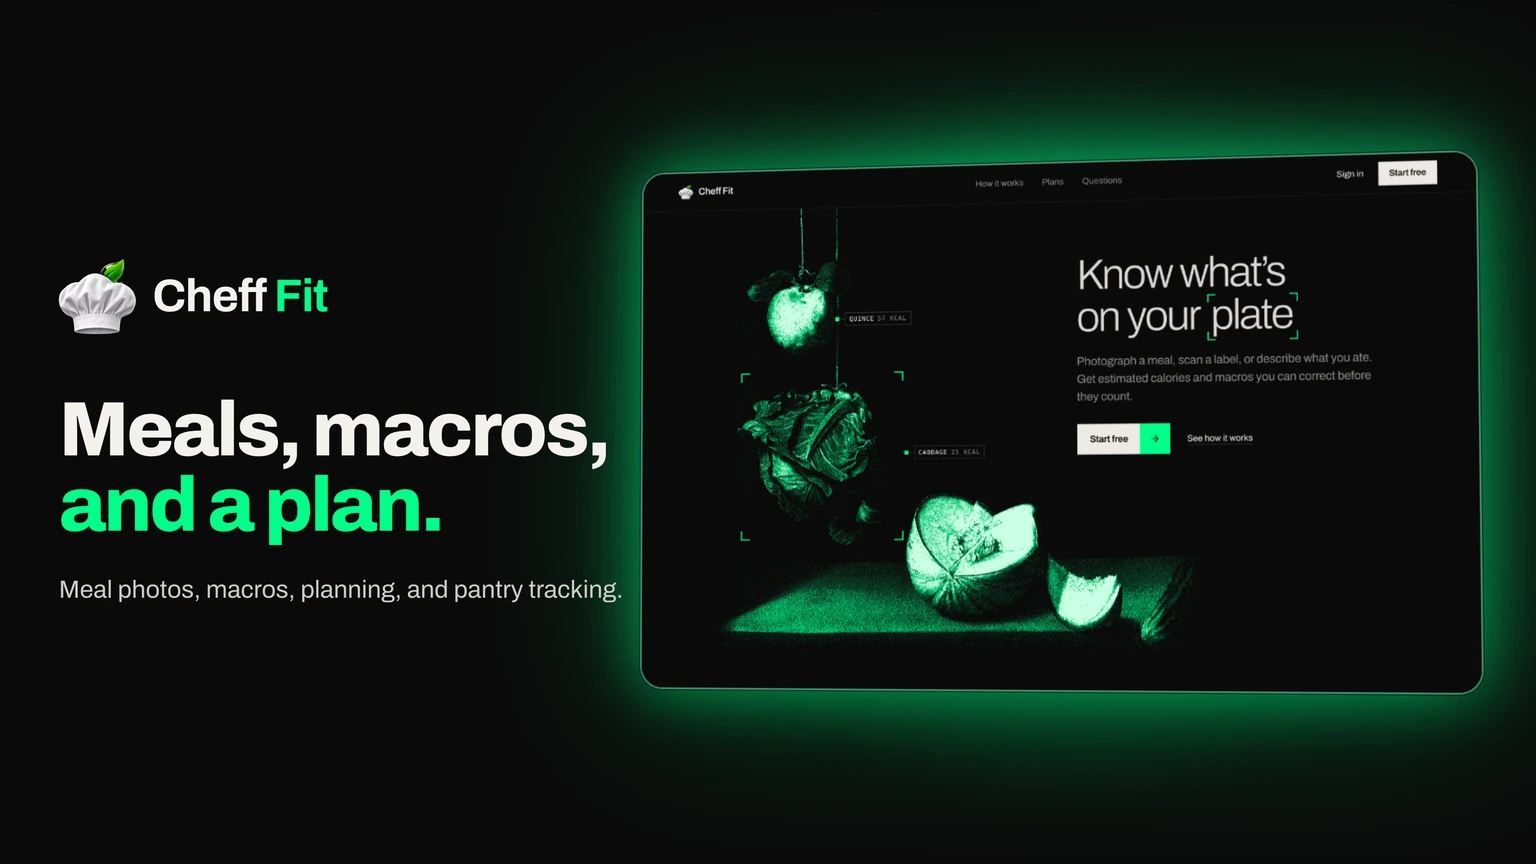
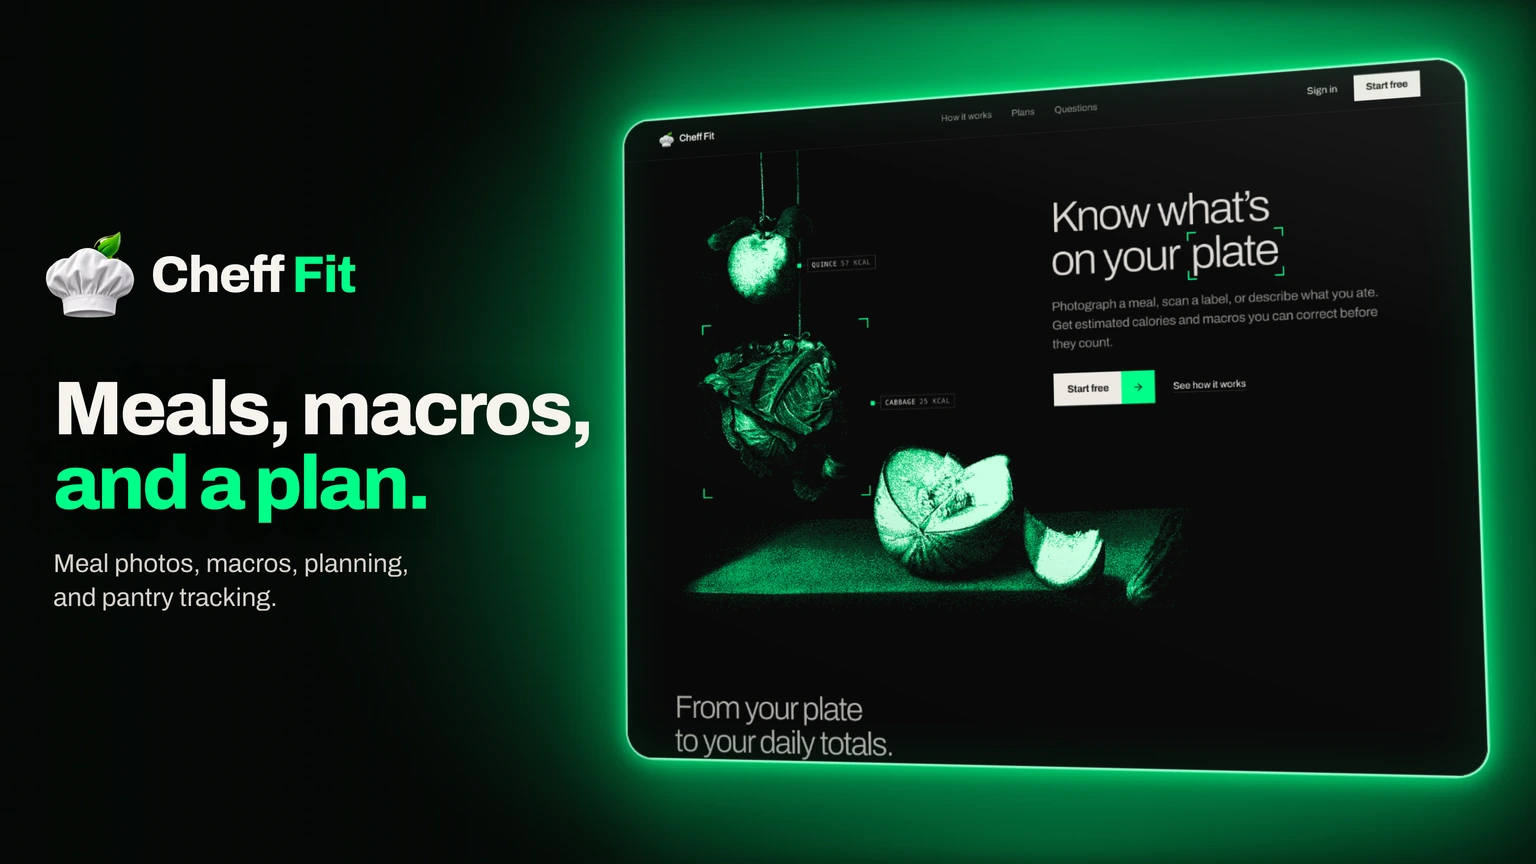
Cheff Fit cover matches the other product cards: larger tilted window with a rim glow, bigger type

diff --git a/projects/index.html b/projects/index.html
@@ -40,7 +40,7 @@
         <div class="project-tools"><input id="project-search" class="project-search" type="search" placeholder="Search projects" aria-label="Search projects"><div class="project-filters" role="group" aria-label="Filter projects"><button type="button" data-filter="all" aria-pressed="true">All</button><button type="button" data-filter="security" aria-pressed="false">Security</button><button type="button" data-filter="automation" aria-pressed="false">AI &amp; automation</button><button type="button" data-filter="systems" aria-pressed="false">Systems</button><button type="button" data-filter="apps" aria-pressed="false">Apps</button></div></div>
         <div class="project-grid">
           <article class="project-card" data-category="automation"><a href="https://pargus.app/"><img src="/assets/projects/thumbnails/pargus.webp" alt="Pargus task board and agent activity, with the headline A meta-harness for agentic task management." width="1536" height="864" loading="eager" decoding="async"><p class="project-meta">AI &amp; automation</p><h2>Pargus</h2><p>A task board, linked notes, and shared memory for you and your coding agents, in one desktop app.</p><p class="project-destination">Visit website <span aria-hidden="true">&nearr;</span></p></a></article>
-          <article class="project-card" data-category="apps"><a href="https://cheff.fit"><img src="/assets/projects/thumbnails/cheff.webp?v=20261112" alt="The Cheff Fit homepage, a stippled still life with calorie tags, beside the headline Meals, macros, and a plan." width="1536" height="864" loading="eager" decoding="async"><p class="project-meta">Apps</p><h2>Cheff.fit</h2><p>Meal photos, macro tracking, meal planning, and kitchen inventory.</p><p class="project-destination">Visit website <span aria-hidden="true">&nearr;</span></p></a></article>
+          <article class="project-card" data-category="apps"><a href="https://cheff.fit"><img src="/assets/projects/thumbnails/cheff.webp?v=2026111202" alt="The Cheff Fit homepage, a stippled still life with calorie tags, beside the headline Meals, macros, and a plan." width="1536" height="864" loading="eager" decoding="async"><p class="project-meta">Apps</p><h2>Cheff.fit</h2><p>Meal photos, macro tracking, meal planning, and kitchen inventory.</p><p class="project-destination">Visit website <span aria-hidden="true">&nearr;</span></p></a></article>
           <article class="project-card" data-category="apps"><a href="https://moviepickr.site"><img src="/assets/projects/thumbnails/moviepickr.webp?v=20261023" alt="Moviepickr homepage with movie posters, movie night action, and a room code field." width="1536" height="864" loading="eager" decoding="async"><p class="project-meta">Apps</p><h2>Moviepickr</h2><p>A movie night picker. Everyone swipes on their phone; the first shared yes wins.</p><p class="project-destination">Visit website <span aria-hidden="true">&nearr;</span></p></a></article>
           <article class="project-card" data-category="automation"><a href="https://hammurabi.menzo.dev/"><img src="/assets/projects/thumbnails/hammurabi.webp?v=20261023" alt="Hammurabi live caption overlay with original speech and its translation." width="1536" height="864" loading="eager" decoding="async"><p class="project-meta">AI &amp; automation</p><h2>Hammurabi</h2><p>Free live captions and translation for system audio and your microphone, read aloud if you like, as a local tray app for Windows, macOS and Linux.</p><p class="project-destination">Visit website <span aria-hidden="true">&nearr;</span></p></a></article>
           <article class="project-card" data-category="automation"><a href="https://babil.menzo.dev/"><img src="/assets/projects/thumbnails/babil.webp?v=20261023" alt="Babil browser video with original and translated live captions." width="1536" height="864" loading="lazy" decoding="async"><p class="project-meta">AI &amp; automation</p><h2>Babil</h2><p>Live translated captions for any browser video, running locally with Whisper, and can read the translation aloud.</p><p class="project-destination">Visit website <span aria-hidden="true">&nearr;</span></p></a></article>
